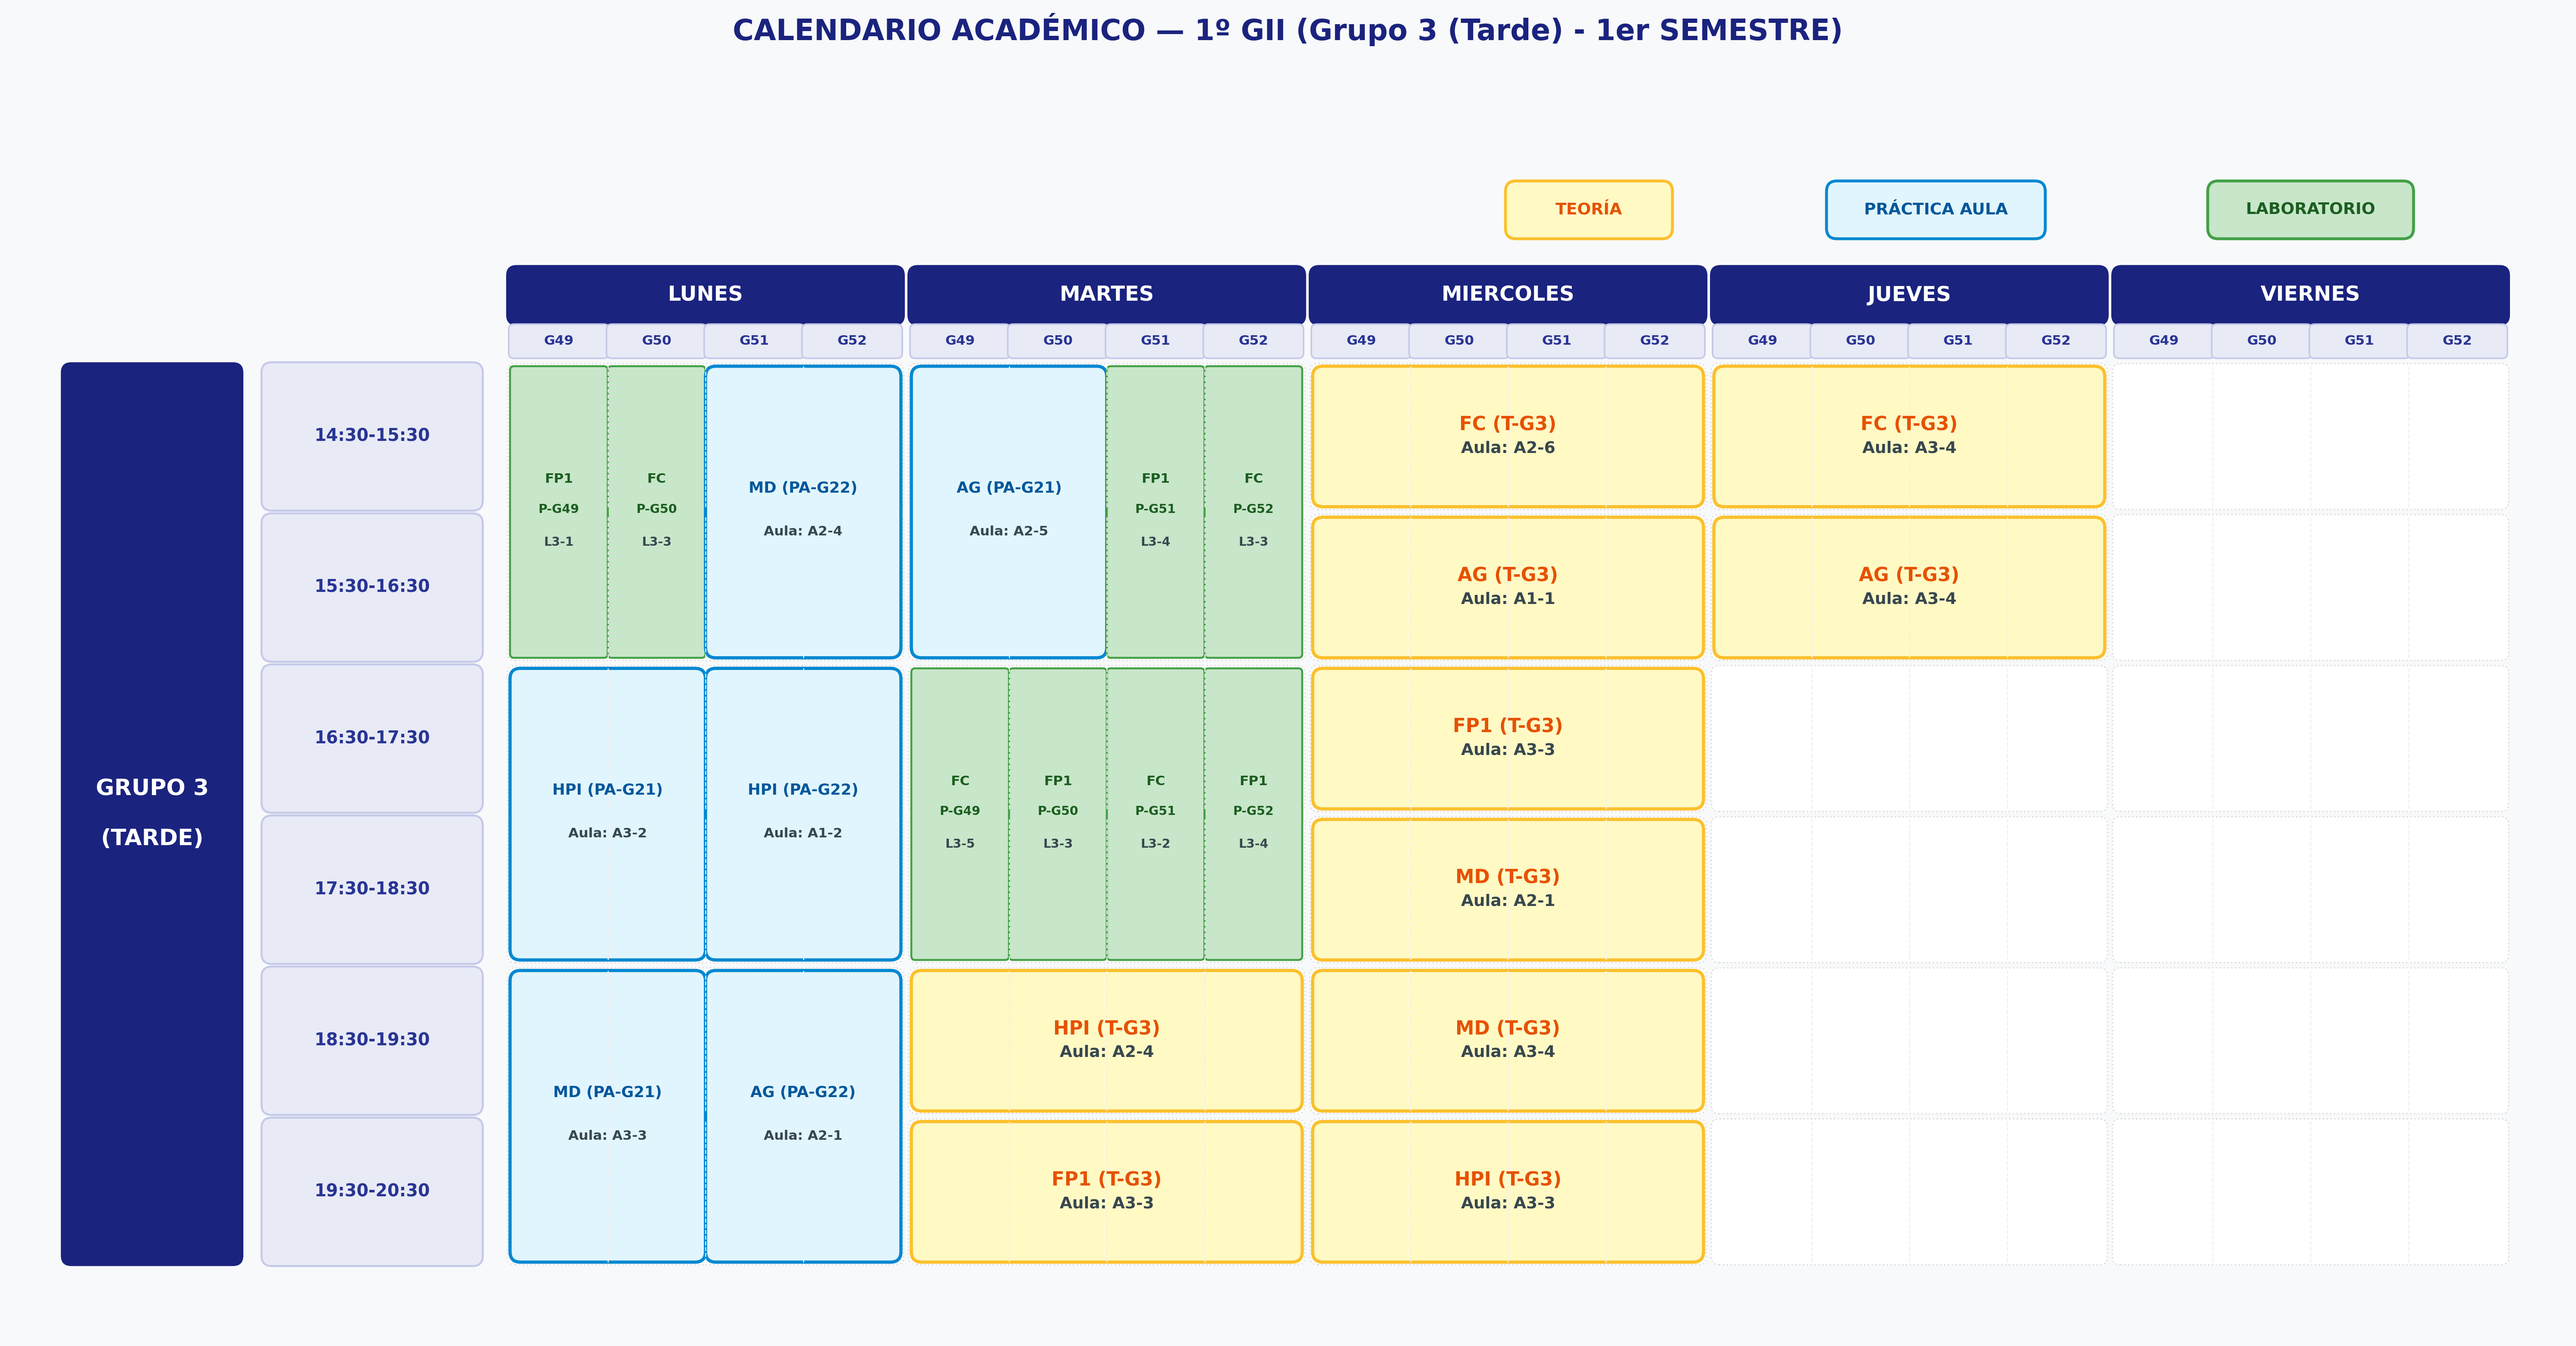
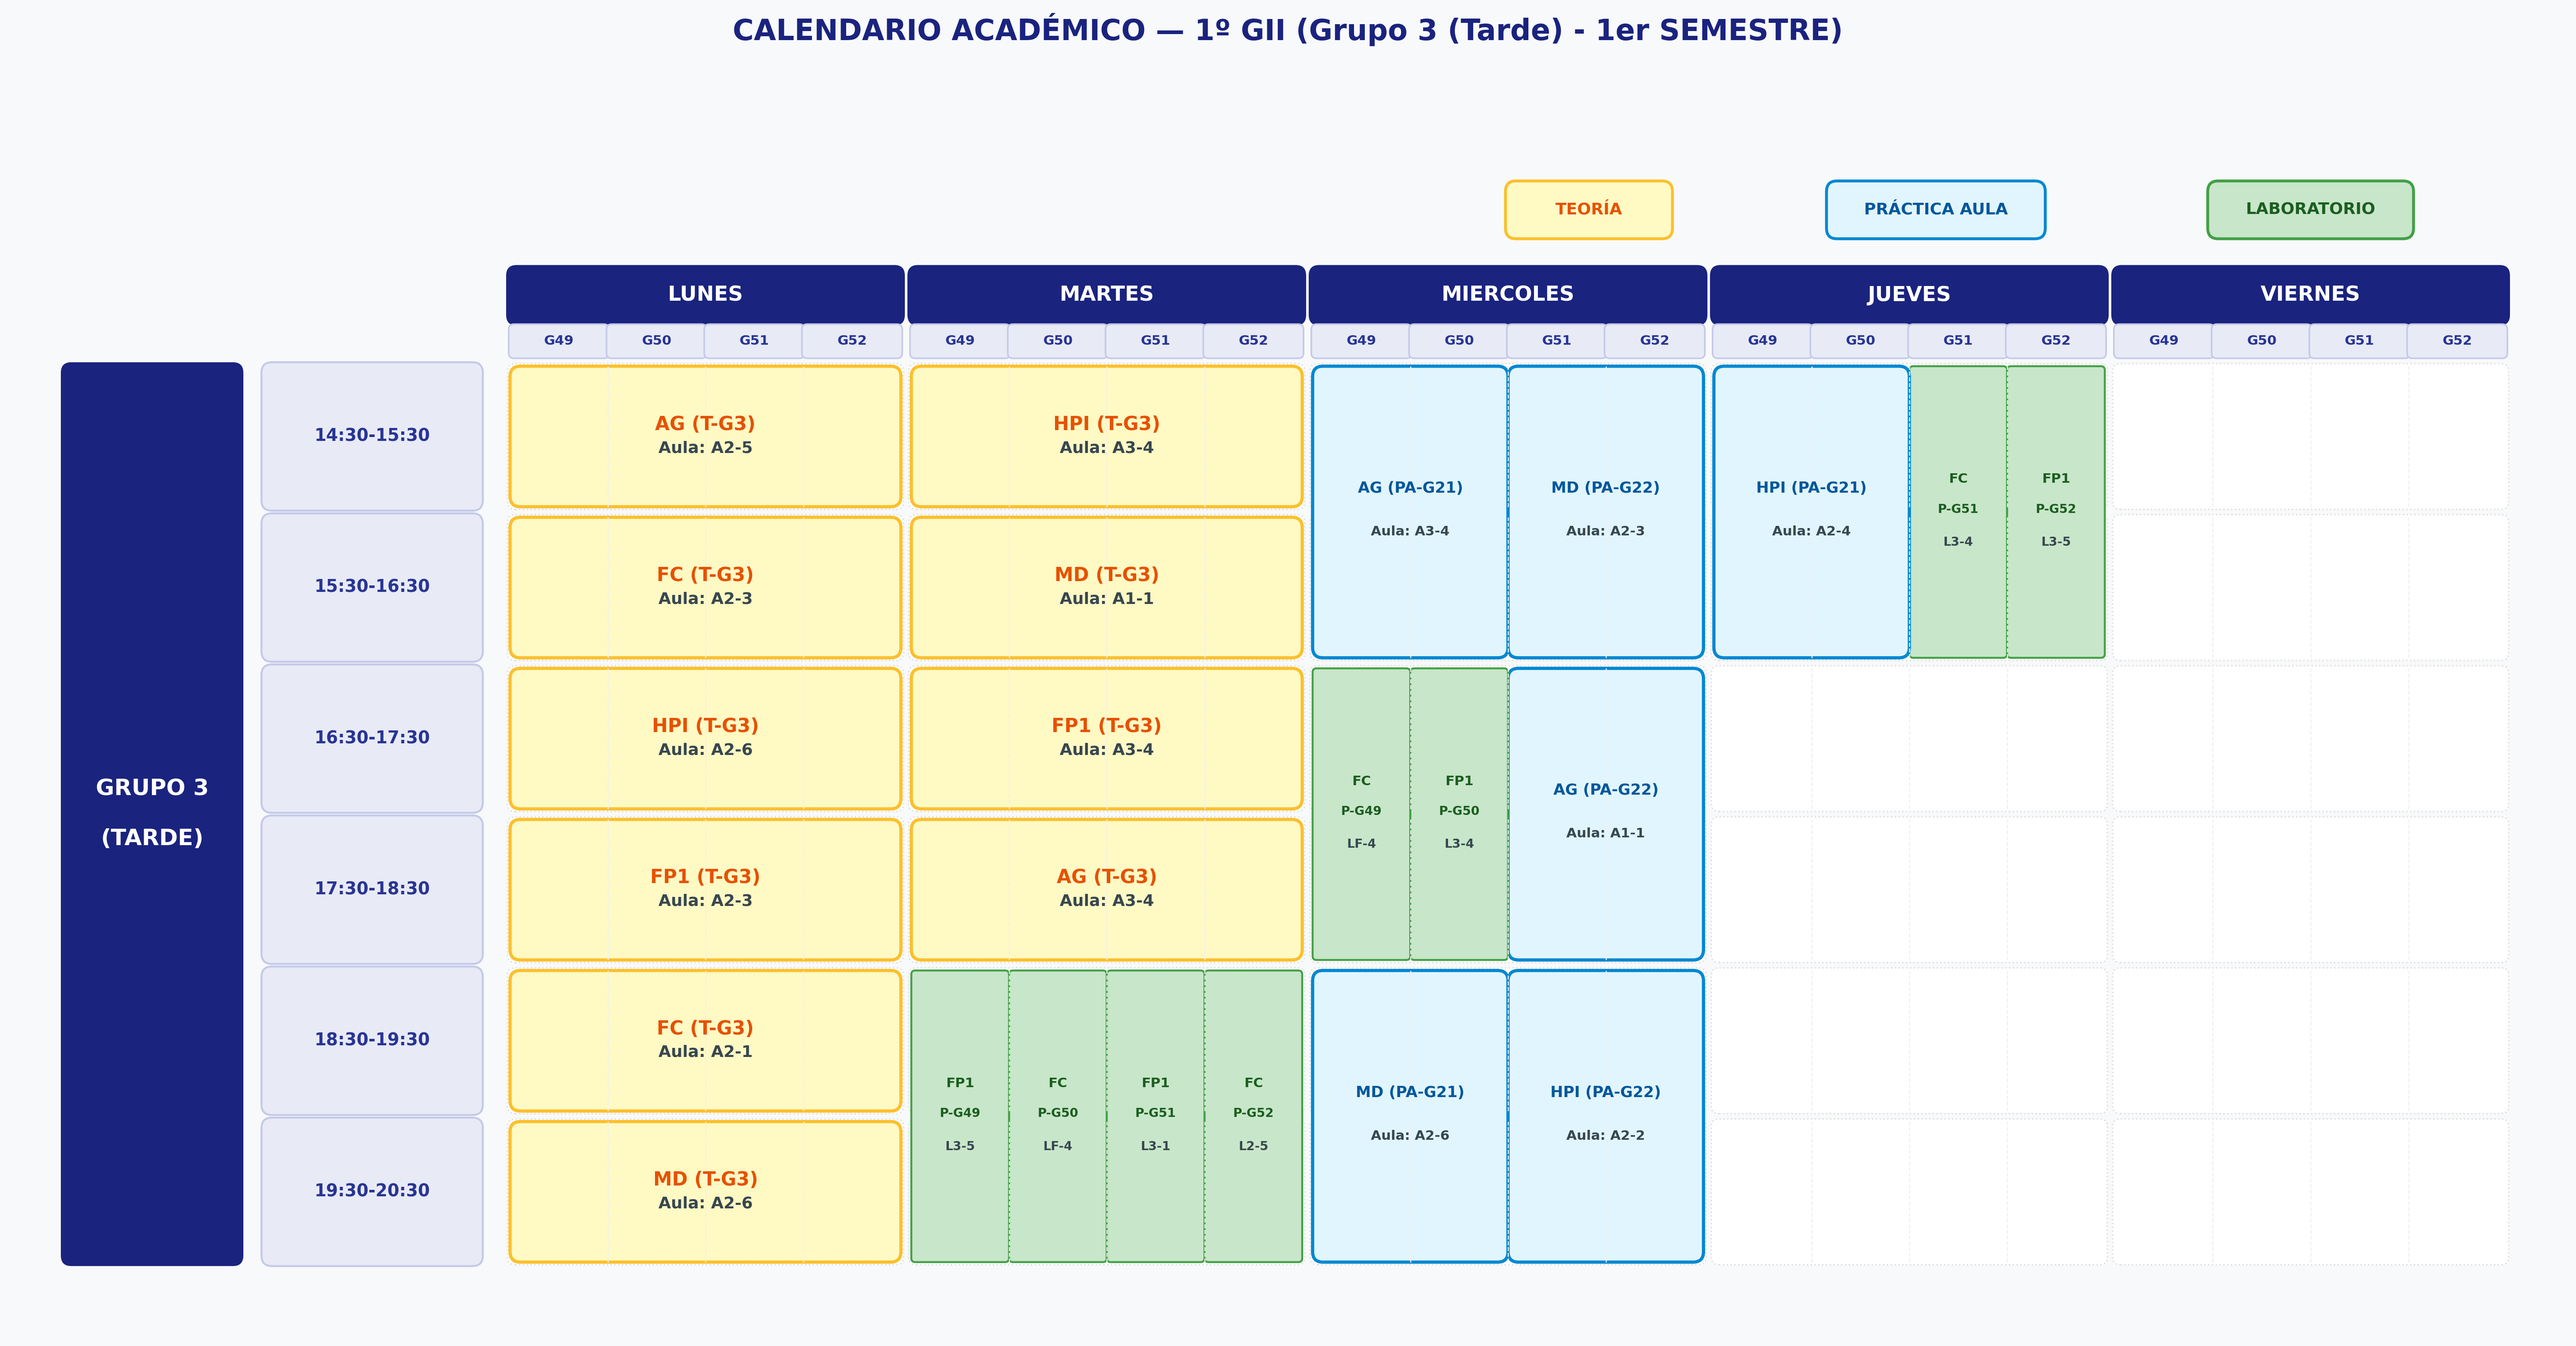
feat: completar 1º GII (Segundo Semestre con Grupos 1, 2 y Grupo 3 de tarde)

diff --git a/src/modelo_base.py b/src/modelo_base.py
@@ -197,6 +197,8 @@ def modelo_base(semestre=1, curso=3, grupo_principal=1):
 if __name__ == "__main__":
     print("\n================== 1º GII - SEMESTRE 1 (GRUPOS 1, 2 Y 3 TARDE) ==================")
     modelo_base(semestre=1, curso=1, grupo_principal=None)
+    print("\n================== 1º GII - SEMESTRE 2 (GRUPOS 1, 2 Y 3 TARDE) ==================")
+    modelo_base(semestre=2, curso=1, grupo_principal=None)
 
     print("\n================== 2º GII - SEMESTRE 1 (GRUPOS 1 Y 2) ==================")
     modelo_base(semestre=1, curso=2, grupo_principal=None)
